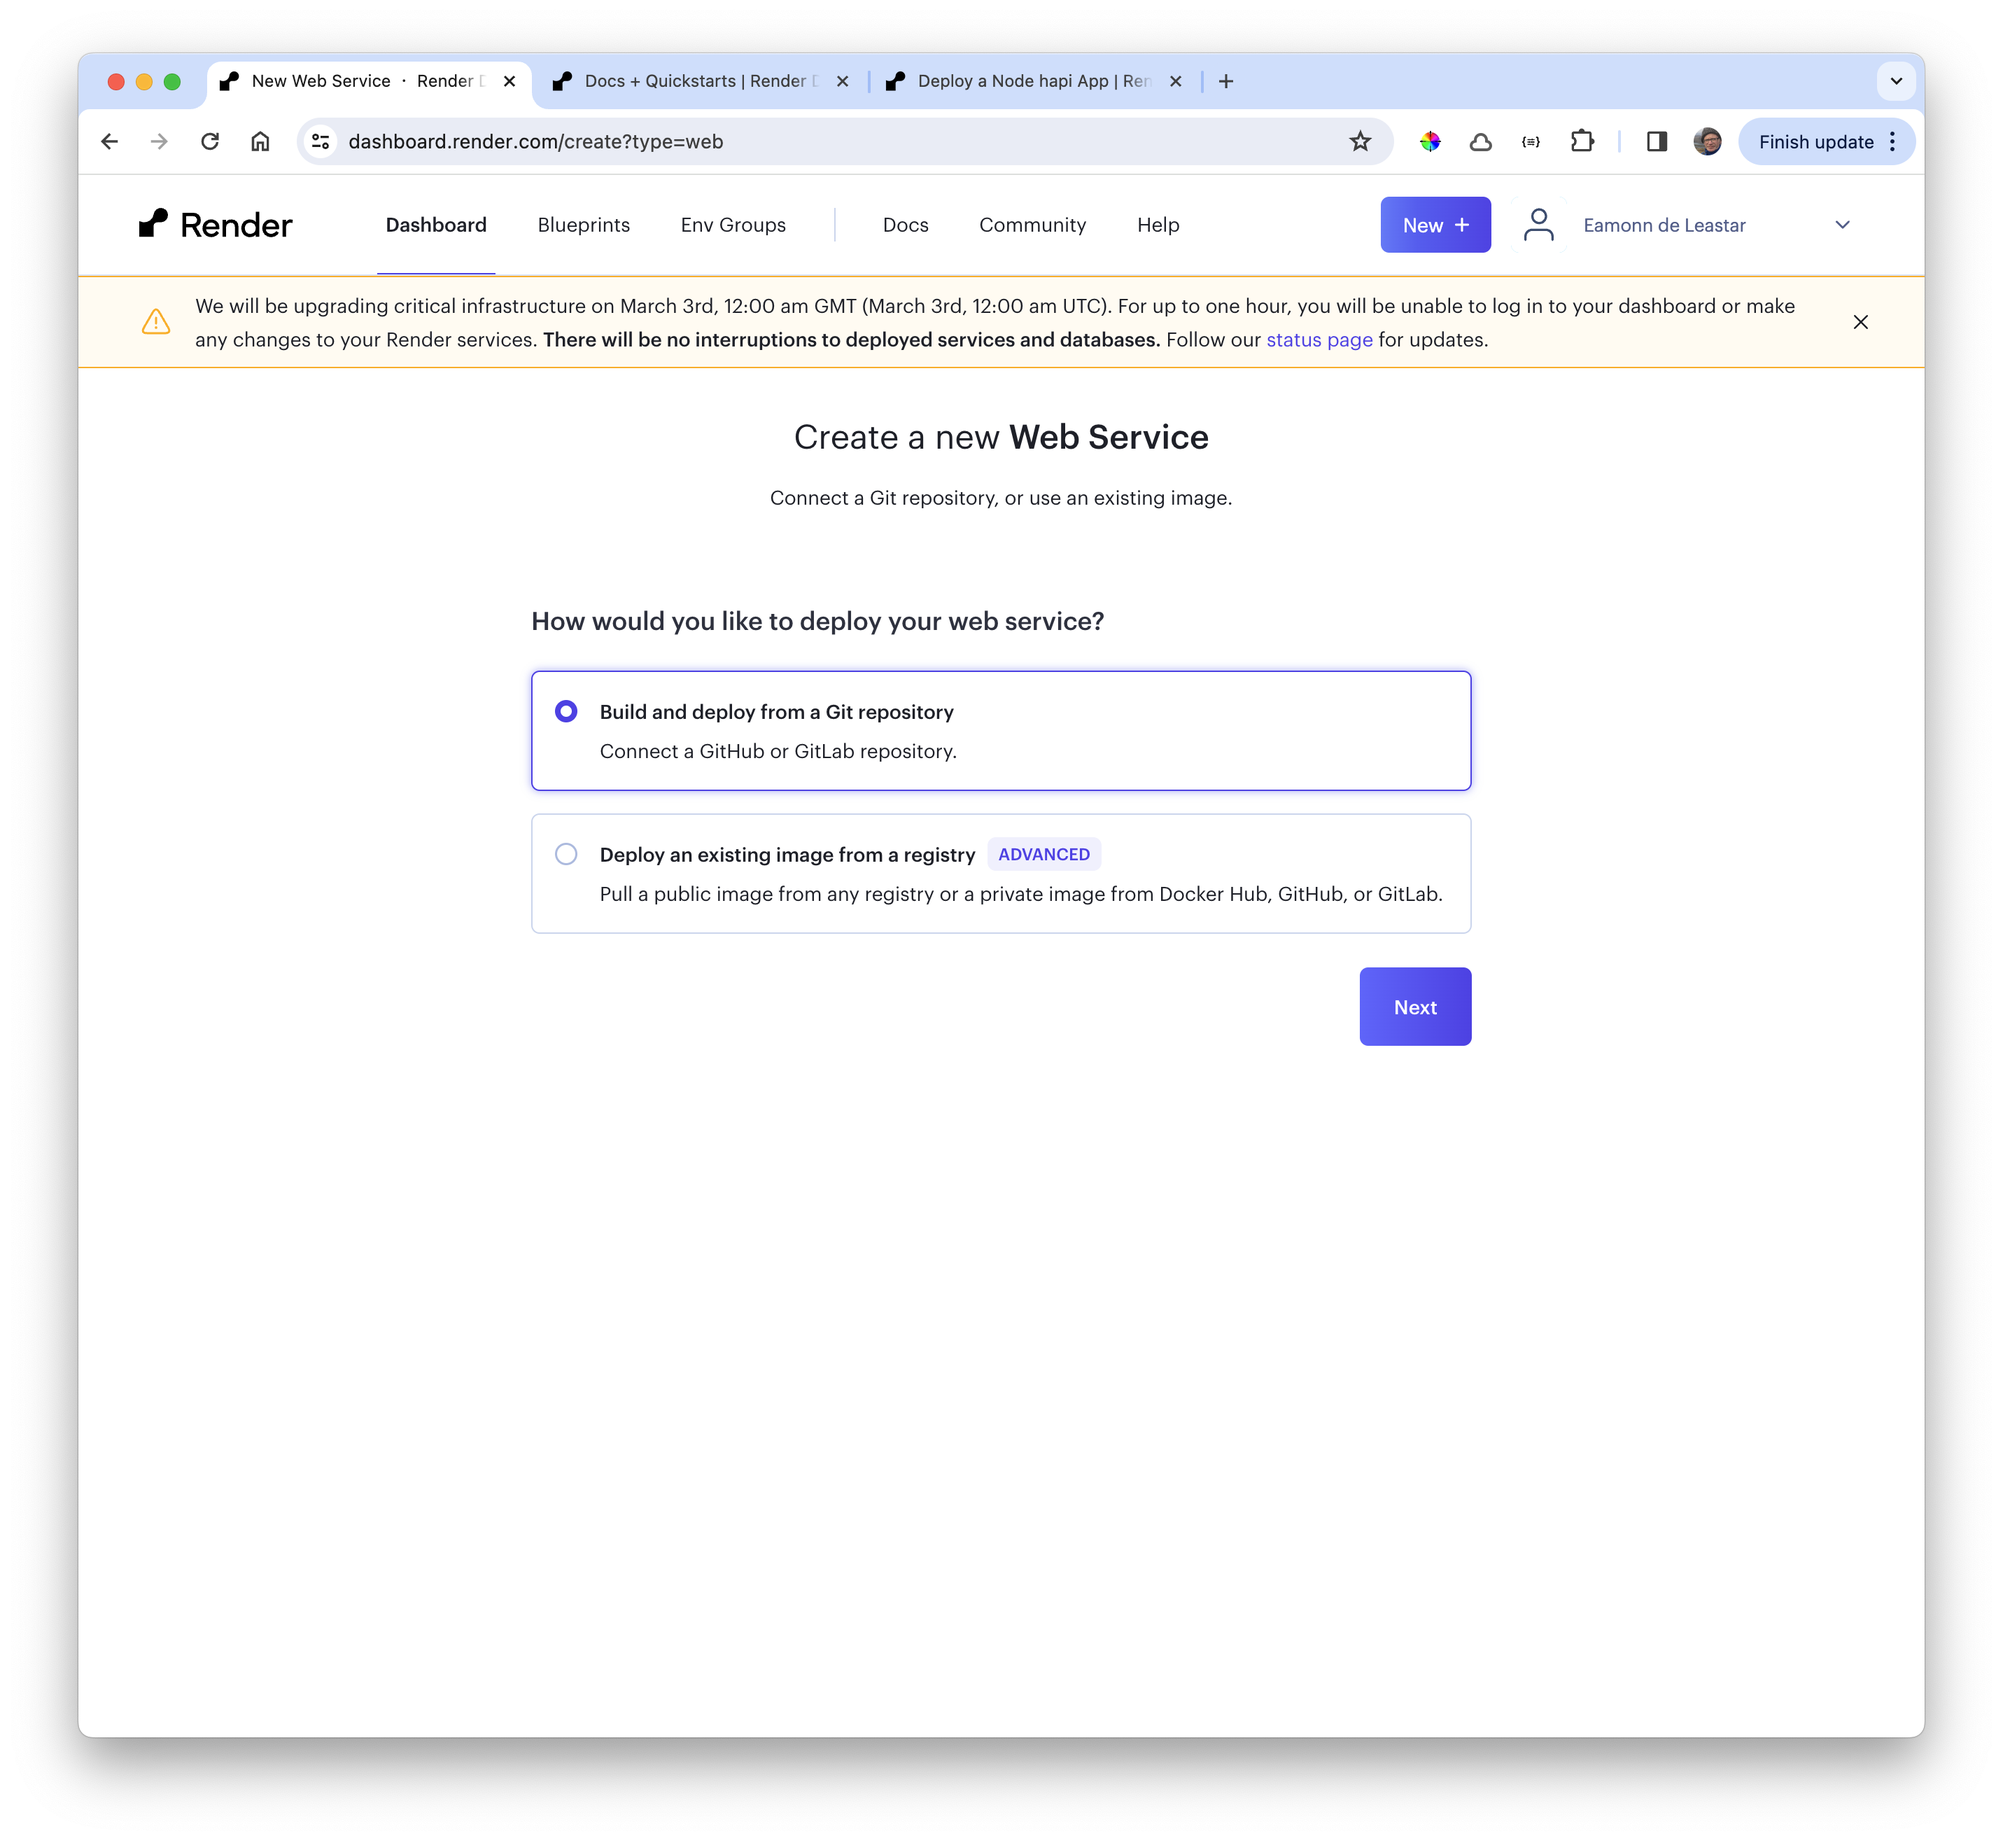
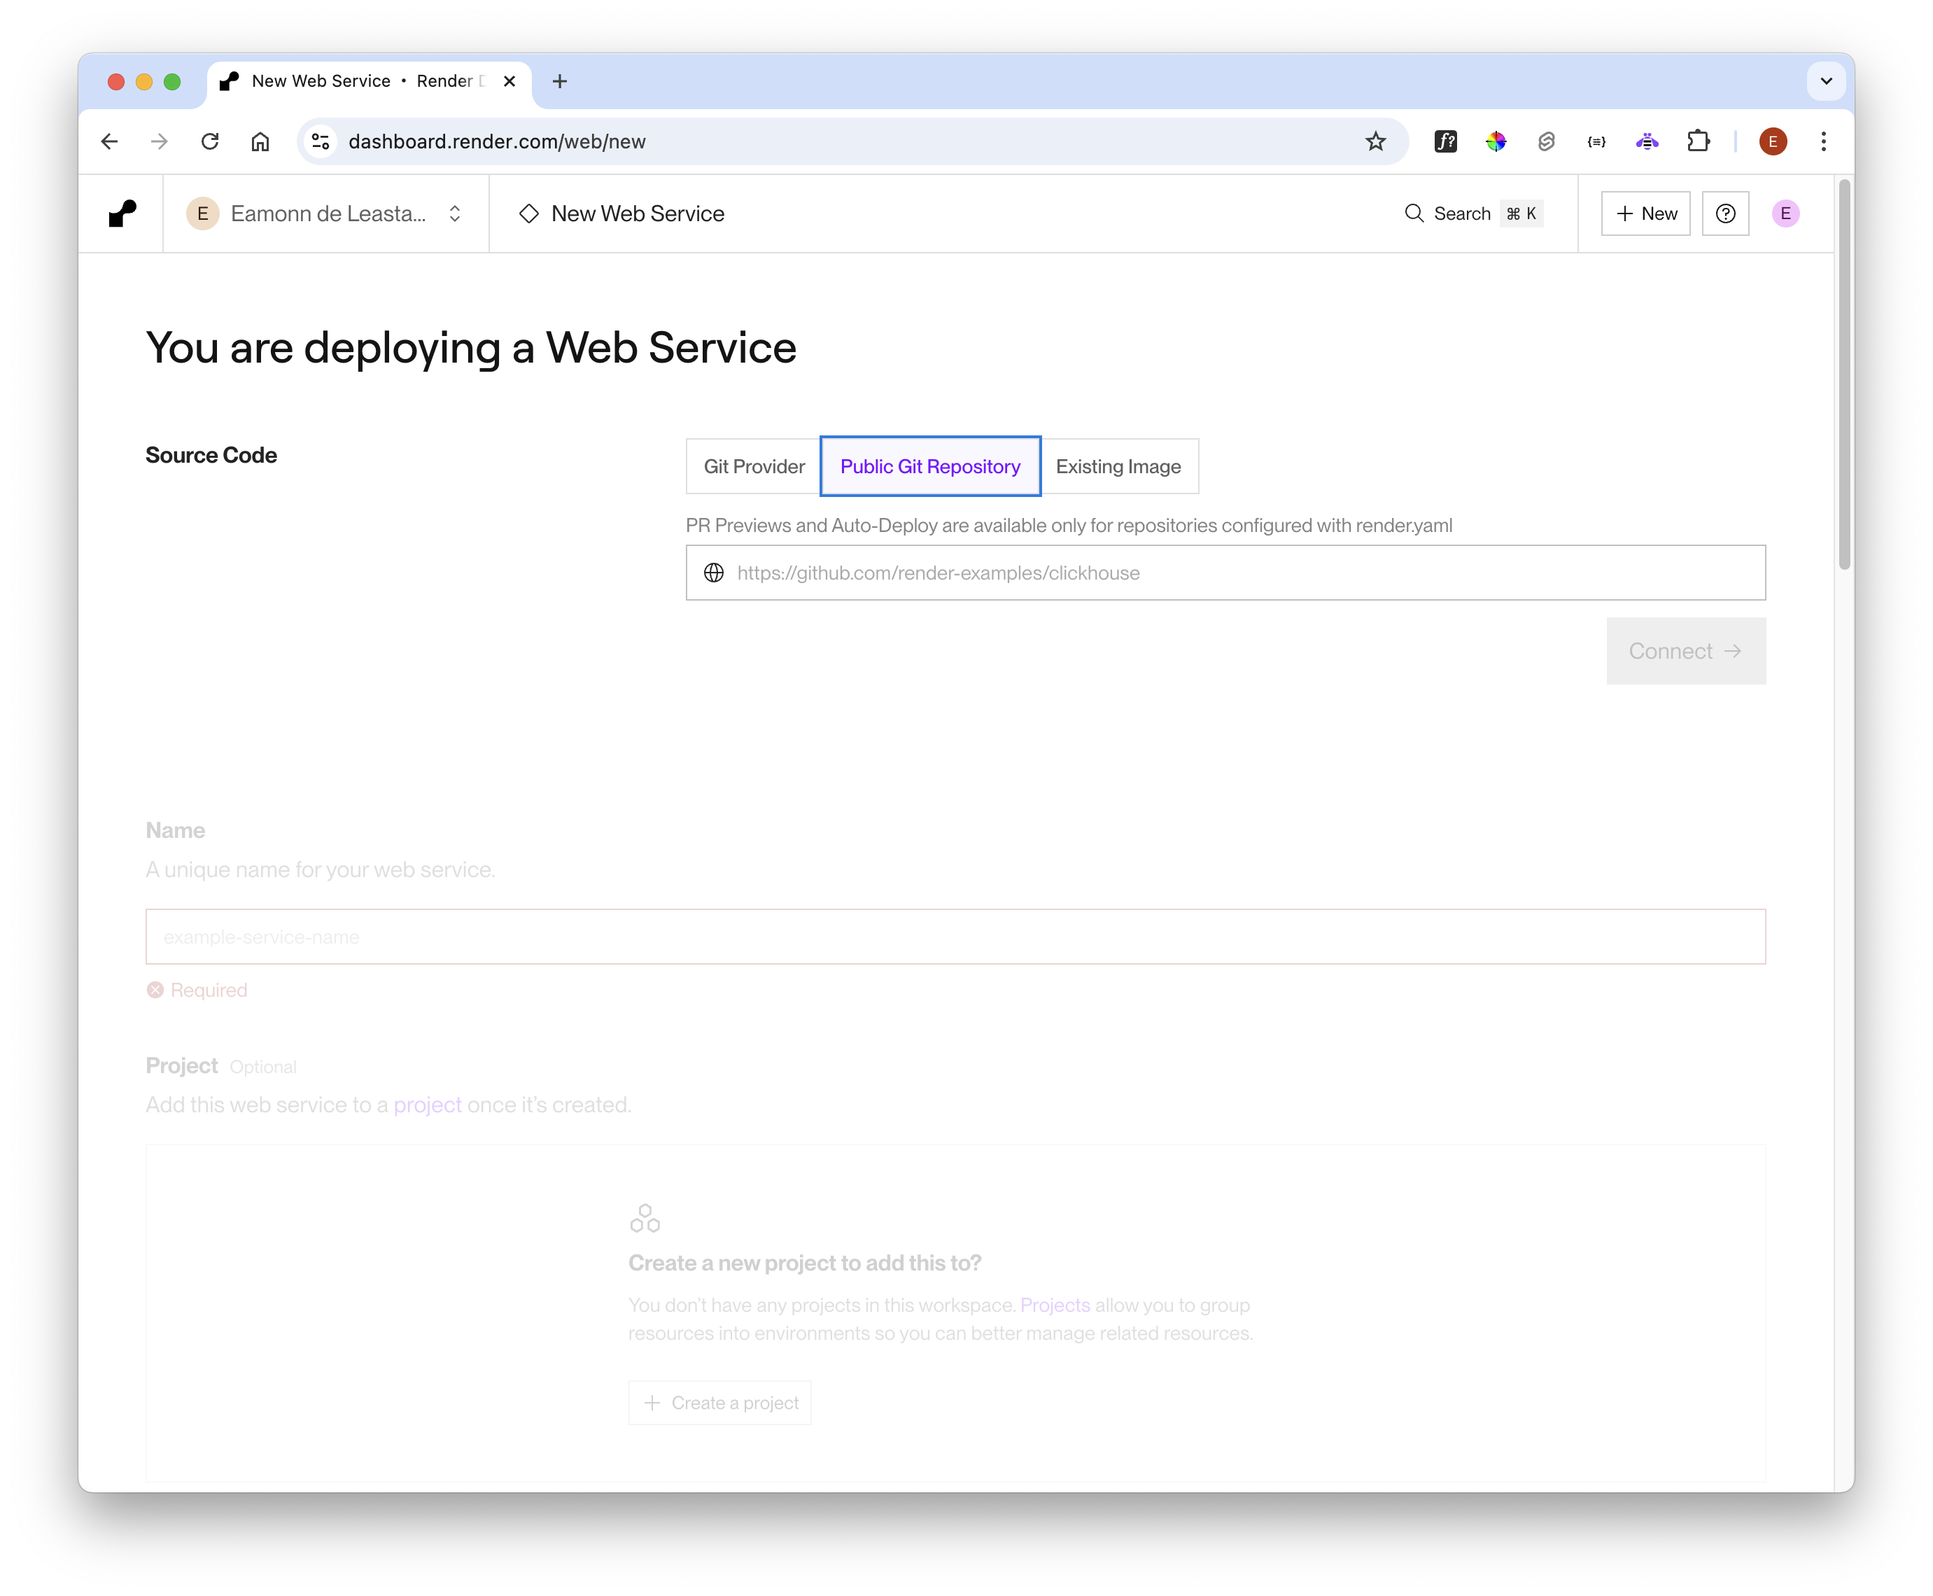
update lab

diff --git a/topic-12-deployment/side-unit/book-3-render/03.03.md b/topic-12-deployment/side-unit/book-3-render/03.03.md
@@ -4,32 +4,44 @@ In the render dashboard:
 
 - <https://dashboard.render.com/>
 
-... and create a new "Web Service". Select the first option (Connect to gtihub):
+![](img/02x.png)
 
-![](img/02.png)
+Select +Add new - and select "Web Service":
 
-Locate the project via your GitHub account:
+![](img/03x.png)
 
-![](img/03.png)
+You may see your GitHub account repos (you may be asked authorise to git). You will eventually see panel like this:
 
-This will make available a configuration screen. Take note of the suggested unique name:
+![](img/04x.png)
 
-![](img/04.png)
+Locate the project via your GitHub account - use this public repo:
 
-Change the start command form the default (shown above) to:
+- <https://github.com/wit-hdip-comp-sci-2024/playtime>
 
+![](img/05x.png)
 
+This will make available a configuration screen. Make up a unique name:
 
-![](img/09.png)
+![](img/06x.png)
 
-Select the instance type to Free:
+Then change these commands on the form:
 
-![](img/08.png)
+#### Build Command
 
+~~~bash
+npm install
+~~~
 
+### Start Command
 
-Next, set up the environment variables - selecting add from .env:
+~~~bash
+npm run start
+~~~
 
-![](img/06.png)
+Then select the "Free" plan.
 
-Past in our values - and then press 'Create Web Service'
+Next, set up the environment variables - selecting "Add from .env"
+
+![](img/07x.png)
+
+Paste in our values - make sure you are using the correct mongo connection string to the cloud database  - and then press 'Deploy Web Service'

diff --git a/topic-12-deployment/side-unit/book-3-render/04.04.md b/topic-12-deployment/side-unit/book-3-render/04.04.md
@@ -1,14 +1,14 @@
 # Deployed
 
-Our deploy will fail however - with the following error:
+Our deploy may fail however - (unless you are using the public playtime rep in this lab)
 
 ~~~bash
 ENOENT: no such file or directory, open '/opt/render/project/src/.env'
 ~~~
 
-![](img/12.png)
+![](img/08x.png)
 
-We have install the .env variables directly into the configuration, replacing the .env file. However, our error checking in server. Is over zealous:
+If it does, it will be because we have installed the .env variables directly into the configuration, replacing the need for the .env file. However, our error checking in server. Is over zealous:
 
 ~~~javascript
 const result = dotenv.config();
@@ -30,8 +30,10 @@ if (result.error) {
 
 ... push this change, and redeploy the latest commit:
 
-![](img/13.png)
+![](img/09x.png)
 
 This should eventually deploy successfully:
 
-![](img/14.png)
+![](img/14x.png)
+
+The url should now be active - see if you can log in using and exercise the app. Keep an eye on the database via Studio 3T or o the mongo cloud console.

diff --git a/topic-12-deployment/side-unit/book-3-render/07.Solution.md b/topic-12-deployment/side-unit/book-3-render/07.Solution.md
@@ -2,7 +2,7 @@
 
 This is the project deployed in this lab:
 
-- <<https://github.com/wit-hdip-comp-sci-2023/playtimes-10>>
+- <https://github.com/wit-hdip-comp-sci-2024/playtime>
 
 
 
